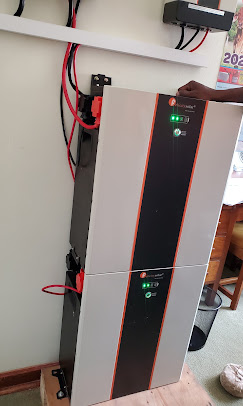
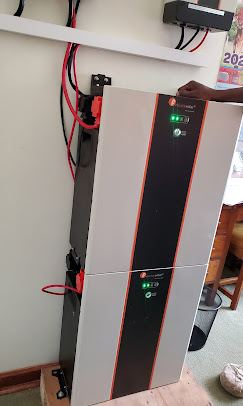
perf: optimize load speed — compress images 43% (113KB), generate WebP, preload LCP, video metadata only, Data Saver detection; fix credit to Noel Digital Agency

diff --git a/index.html b/index.html
@@ -12,6 +12,9 @@
 <meta property="og:image" content="assets/solar-4.jpg">
 <meta name="twitter:card" content="summary_large_image">
 <meta name="theme-color" content="#0F2342">
+<link rel="preload" as="image" href="assets/solar-1.webp" fetchpriority="high">
+<link rel="preload" as="image" href="assets/solar-4.webp">
+<link rel="preconnect" href="https://fonts.gstatic.com" crossorigin>
 <script type="application/ld+json">{"@context":"https://schema.org","@type":"Organization","name":"Felicity Solar Zimbabwe (Private) Limited","url":"https://www.felicitysolar.co.zw","logo":"assets/solar-5.jpg","address":{"@type":"PostalAddress","streetAddress":"45 Glenara Avenue South, Eastlea","addressLocality":"Harare","addressCountry":"ZW"},"telephone":"+263779073333","description":"High-technology new energy enterprise — hybrid inverters, LiFePO4 storage, photovoltaic modules, solar lighting"}</script>
 <link rel="preconnect" href="https://fonts.googleapis.com">
 <link href="https://fonts.googleapis.com/css2?family=Open+Sans:wght@400;500;600;700&family=Poppins:wght@400;500;600;700;800&display=swap" rel="stylesheet">
@@ -103,7 +106,7 @@ html{scroll-behavior:smooth; scroll-padding-top:84px}
 
 <main id="main">
 <section class="relative min-h-[92vh] flex items-center overflow-hidden pt-16 md:pt-0">
-  <video id="heroVideo" autoplay muted loop playsinline poster="assets/solar-1.jpg" class="absolute inset-0 w-full h-full object-cover">
+  <video id="heroVideo" autoplay muted loop playsinline preload="metadata" poster="assets/solar-1.webp" class="absolute inset-0 w-full h-full object-cover">
     <source src="assets/hero-video.mp4" type="video/mp4">
   </video>
   <div class="absolute inset-0 hero-overlay"></div>
@@ -131,9 +134,9 @@ html{scroll-behavior:smooth; scroll-padding-top:84px}
       </div>
       <div class="flex items-center gap-5 mt-8 text-sm">
         <div class="flex -space-x-2">
-          <img src="assets/hero-1.jfif" class="w-9 h-9 rounded-full border-2 border-navy object-cover" alt="Felicity Solar technician">
-          <img src="assets/solar-6.jpg" class="w-9 h-9 rounded-full border-2 border-navy object-cover" alt="Felicity Solar reception">
-          <img src="assets/solar-4.jpg" class="w-9 h-9 rounded-full border-2 border-navy object-cover" alt="Solar installation in progress">
+          <img src="assets/hero-1.webp" onerror="this.onerror=null;this.src='assets/hero-1.jfif'" class="w-9 h-9 rounded-full border-2 border-navy object-cover" alt="Felicity Solar technician">
+          <img src="assets/solar-6.webp" onerror="this.onerror=null;this.src='assets/solar-6.jpg'" class="w-9 h-9 rounded-full border-2 border-navy object-cover" alt="Felicity Solar reception">
+          <img src="assets/solar-4.webp" onerror="this.onerror=null;this.src='assets/solar-4.jpg'" class="w-9 h-9 rounded-full border-2 border-navy object-cover" alt="Solar installation in progress">
         </div>
         <div class="text-white/90">
           <div class="flex items-center gap-1 text-solar"><svg class="w-4 h-4 fill-current" viewBox="0 0 24 24"><path d="M12 2l3.09 6.26L22 9.27l-5 4.87 1.18 6.88L12 17.77l-6.18 3.25L7 14.14 2 9.27l6.91-1.01L12 2z"/></svg><svg class="w-4 h-4 fill-current" viewBox="0 0 24 24"><path d="M12 2l3.09 6.26L22 9.27l-5 4.87 1.18 6.88L12 17.77l-6.18 3.25L7 14.14 2 9.27l6.91-1.01L12 2z"/></svg><svg class="w-4 h-4 fill-current" viewBox="0 0 24 24"><path d="M12 2l3.09 6.26L22 9.27l-5 4.87 1.18 6.88L12 17.77l-6.18 3.25L7 14.14 2 9.27l6.91-1.01L12 2z"/></svg><svg class="w-4 h-4 fill-current" viewBox="0 0 24 24"><path d="M12 2l3.09 6.26L22 9.27l-5 4.87 1.18 6.88L12 17.77l-6.18 3.25L7 14.14 2 9.27l6.91-1.01L12 2z"/></svg><svg class="w-4 h-4 fill-current" viewBox="0 0 24 24"><path d="M12 2l3.09 6.26L22 9.27l-5 4.87 1.18 6.88L12 17.77l-6.18 3.25L7 14.14 2 9.27l6.91-1.01L12 2z"/></svg> <span class="ml-1 font-bold text-white">4.6/5</span></div>
@@ -150,13 +153,13 @@ html{scroll-behavior:smooth; scroll-padding-top:84px}
           </div>
           <div class="mt-4 grid grid-cols-2 gap-3">
             <div class="rounded-2xl overflow-hidden bg-slate-50 border border-slate-100 p-3">
-              <img src="assets/solar-1.jpg" loading="lazy" class="w-full h-28 object-cover rounded-xl" alt="Felicity FLA 5.12kWh wall-mounted lithium battery — actual installation">
+              <img src="assets/solar-1.webp" onerror="this.onerror=null;this.src='assets/solar-1.jpg'" loading="lazy" decoding="async" class="w-full h-28 object-cover rounded-xl" alt="Felicity FLA 5.12kWh wall-mounted lithium battery — actual installation">
               <div class="mt-3 font-poppins font-semibold text-navy text-sm leading-tight">FLA 5.12kWh Wallmount</div>
               <div class="text-xs text-slate-500">LiFePO4 • 51.2V 100Ah • IP65</div>
               <div class="mt-2 flex items-center gap-2"><span class="font-bold text-navy">$1,899</span><span class="text-xs line-through text-slate-400">$2,100</span></div>
             </div>
             <div class="rounded-2xl overflow-hidden bg-slate-50 border border-slate-100 p-3">
-              <img src="assets/solar-5.jpg" loading="lazy" class="w-full h-28 object-cover rounded-xl" alt="Felicity FL-IVPL 48V hybrid inverter — product detail">
+              <img src="assets/solar-5.webp" onerror="this.onerror=null;this.src='assets/solar-5.jpg'" loading="lazy" decoding="async" class="w-full h-28 object-cover rounded-xl" alt="Felicity FL-IVPL 48V hybrid inverter — product detail">
               <div class="mt-3 font-poppins font-semibold text-navy text-sm leading-tight">FL-IVPL 10kVA Hybrid</div>
               <div class="text-xs text-slate-500">48V • 80–280V Input • 3200W PV</div>
               <div class="mt-2 flex items-center gap-2"><span class="font-bold text-navy">$1,250</span><span class="text-xs bg-solar text-navy font-bold px-1.5 py-0.5 rounded">-10%</span></div>
@@ -224,10 +227,10 @@ html{scroll-behavior:smooth; scroll-padding-top:84px}
     </div>
     <div class="relative">
       <div class="grid grid-cols-2 gap-3">
-        <img src="assets/solar-1.jpg" loading="lazy" class="rounded-[20px] h-48 w-full object-cover shadow-lg" alt="Stacked LiFePO4 battery installation — white wall-mounted units with green status indicators">
-        <img src="assets/hero-1.jfif" loading="lazy" class="rounded-[20px] h-48 w-full object-cover shadow-lg mt-6" alt="Certified Felicity Solar technician with photovoltaic module">
-        <img src="assets/solar-4.jpg" loading="lazy" class="rounded-[20px] h-56 w-full object-cover shadow-lg -mt-6" alt="Rooftop photovoltaic installation in progress — technician securing panels">
-        <img src="assets/solar-3.jpg" loading="lazy" class="rounded-[20px] h-56 w-full object-cover shadow-lg" alt="Parallel lithium battery bank with DC wiring — technical installation detail">
+        <img src="assets/solar-1.webp" onerror="this.onerror=null;this.src='assets/solar-1.jpg'" loading="lazy" decoding="async" class="rounded-[20px] h-48 w-full object-cover shadow-lg" alt="Stacked LiFePO4 battery installation — white wall-mounted units with green status indicators">
+        <img src="assets/hero-1.webp" onerror="this.onerror=null;this.src='assets/hero-1.jfif'" loading="lazy" decoding="async" class="rounded-[20px] h-48 w-full object-cover shadow-lg mt-6" alt="Certified Felicity Solar technician with photovoltaic module">
+        <img src="assets/solar-4.webp" onerror="this.onerror=null;this.src='assets/solar-4.jpg'" loading="lazy" decoding="async" class="rounded-[20px] h-56 w-full object-cover shadow-lg -mt-6" alt="Rooftop photovoltaic installation in progress — technician securing panels">
+        <img src="assets/solar-3.webp" onerror="this.onerror=null;this.src='assets/solar-3.jpg'" loading="lazy" decoding="async" class="rounded-[20px] h-56 w-full object-cover shadow-lg" alt="Parallel lithium battery bank with DC wiring — technical installation detail">
       </div>
       <div class="absolute -bottom-4 -left-2 md:-left-6 bg-navy text-white rounded-2xl px-5 py-4 shadow-xl flex items-center gap-4">
         <div class="w-12 h-12 rounded-xl bg-solar flex items-center justify-center text-navy font-extrabold text-xl">4.6</div>
@@ -250,7 +253,7 @@ html{scroll-behavior:smooth; scroll-padding-top:84px}
     <div class="mt-6 flex flex-wrap gap-2 no-print"><button data-filter="all" class="filterBtn bg-navy text-white px-5 py-2 rounded-full text-sm font-bold cursor-pointer">All</button><button data-filter="inverter" class="filterBtn bg-slate-100 hover:bg-slate-200 text-navy px-5 py-2 rounded-full text-sm font-semibold cursor-pointer">Inverters</button><button data-filter="battery" class="filterBtn bg-slate-100 hover:bg-slate-200 text-navy px-5 py-2 rounded-full text-sm font-semibold cursor-pointer">Batteries</button><button data-filter="pv" class="filterBtn bg-slate-100 hover:bg-slate-200 text-navy px-5 py-2 rounded-full text-sm font-semibold cursor-pointer">PV Modules</button><button data-filter="light" class="filterBtn bg-slate-100 hover:bg-slate-200 text-navy px-5 py-2 rounded-full text-sm font-semibold cursor-pointer">Illumination</button></div>
     <div class="grid md:grid-cols-2 lg:grid-cols-4 gap-5 mt-6">
       <div data-cat="inverter" class="productCard group bg-[#F8FAFC] rounded-[20px] border border-slate-200 overflow-hidden hover:shadow-[0_12px_30px_rgba(15,35,66,0.08)] hover:-translate-y-1 transition-all duration-200 cursor-pointer">
-        <div class="h-44 overflow-hidden relative"><img src="assets/solar-5.jpg" loading="lazy" class="w-full h-full object-cover group-hover:scale-105 transition-transform duration-500" alt="Felicity FL-IVPL 48V hybrid inverter — official product graphic showing 80-280V wide input"><span class="absolute top-3 left-3 bg-navy text-white text-xs font-bold px-3 py-1 rounded-full">BESTSELLER</span></div>
+        <div class="h-44 overflow-hidden relative"><img src="assets/solar-5.webp" onerror="this.onerror=null;this.src='assets/solar-5.jpg'" loading="lazy" decoding="async" class="w-full h-full object-cover group-hover:scale-105 transition-transform duration-500" alt="Felicity FL-IVPL 48V hybrid inverter — official product graphic showing 80-280V wide input"><span class="absolute top-3 left-3 bg-navy text-white text-xs font-bold px-3 py-1 rounded-full">BESTSELLER</span></div>
         <div class="p-5">
           <div class="w-9 h-9 rounded-xl bg-solar/15 flex items-center justify-center"><svg class="w-5 h-5 text-solar-dark" fill="none" stroke="currentColor" stroke-width="2" viewBox="0 0 24 24"><rect x="2" y="7" width="20" height="14" rx="2"/><path d="M16 7V5a2 2 0 00-2-2H10a2 2 0 00-2 2v2"/></svg></div>
           <h3 class="font-poppins font-semibold text-navy mt-3">Hybrid Inverters</h3>
@@ -260,7 +263,7 @@ html{scroll-behavior:smooth; scroll-padding-top:84px}
         </div>
       </div>
       <div data-cat="battery" class="productCard group bg-[#F8FAFC] rounded-[20px] border border-slate-200 overflow-hidden hover:shadow-[0_12px_30px_rgba(15,35,66,0.08)] hover:-translate-y-1 transition-all duration-200 cursor-pointer">
-        <div class="h-44 overflow-hidden relative"><img src="assets/solar-1.jpg" loading="lazy" class="w-full h-full object-cover group-hover:scale-105 transition-transform duration-500" alt="Felicity LiFePO4 stacked battery — white wall-mounted units with orange trim and status LEDs as installed"><span class="absolute top-3 left-3 bg-eco text-white text-xs font-bold px-3 py-1 rounded-full">LiFePO4 • 10YR</span></div>
+        <div class="h-44 overflow-hidden relative"><img src="assets/solar-1.webp" onerror="this.onerror=null;this.src='assets/solar-1.jpg'" loading="lazy" decoding="async" class="w-full h-full object-cover group-hover:scale-105 transition-transform duration-500" alt="Felicity LiFePO4 stacked battery — white wall-mounted units with orange trim and status LEDs as installed"><span class="absolute top-3 left-3 bg-eco text-white text-xs font-bold px-3 py-1 rounded-full">LiFePO4 • 10YR</span></div>
         <div class="p-5">
           <div class="w-9 h-9 rounded-xl bg-eco/10 flex items-center justify-center"><svg class="w-5 h-5 text-eco" fill="none" stroke="currentColor" stroke-width="2" viewBox="0 0 24 24"><rect x="2" y="7" width="18" height="10" rx="2"/><path d="M22 11v2"/><path d="M6 7v10M10 7v10M14 7v10"/></svg></div>
           <h3 class="font-poppins font-semibold text-navy mt-3">Lithium Energy Storage</h3>
@@ -270,7 +273,7 @@ html{scroll-behavior:smooth; scroll-padding-top:84px}
         </div>
       </div>
       <div data-cat="pv" class="productCard group bg-[#F8FAFC] rounded-[20px] border border-slate-200 overflow-hidden hover:shadow-[0_12px_30px_rgba(15,35,66,0.08)] hover:-translate-y-1 transition-all duration-200 cursor-pointer">
-        <div class="h-44 overflow-hidden"><img src="assets/solar-4.jpg" loading="lazy" class="w-full h-full object-cover group-hover:scale-105 transition-transform duration-500" alt="Photovoltaic installation in progress — certified installer securing rooftop panels"></div>
+        <div class="h-44 overflow-hidden"><img src="assets/solar-4.webp" onerror="this.onerror=null;this.src='assets/solar-4.jpg'" loading="lazy" decoding="async" class="w-full h-full object-cover group-hover:scale-105 transition-transform duration-500" alt="Photovoltaic installation in progress — certified installer securing rooftop panels"></div>
         <div class="p-5">
           <div class="w-9 h-9 rounded-xl bg-cyan/10 flex items-center justify-center"><svg class="w-5 h-5 text-cyan" fill="none" stroke="currentColor" stroke-width="2" viewBox="0 0 24 24"><rect x="3" y="3" width="18" height="18" rx="2"/><path d="M3 9h18M9 21V9"/><path d="M14 9h5v5"/><path d="M3 15h6v6"/></svg></div>
           <h3 class="font-poppins font-semibold text-navy mt-3">Photovoltaic Modules</h3>
@@ -280,7 +283,7 @@ html{scroll-behavior:smooth; scroll-padding-top:84px}
         </div>
       </div>
       <div data-cat="light" class="productCard group bg-[#F8FAFC] rounded-[20px] border border-slate-200 overflow-hidden hover:shadow-[0_12px_30px_rgba(15,35,66,0.08)] hover:-translate-y-1 transition-all duration-200 cursor-pointer">
-        <div class="h-44 overflow-hidden"><img src="assets/solar-2.jpg" loading="lazy" class="w-full h-full object-cover group-hover:scale-105 transition-transform duration-500" alt="Outdoor field deployment — Felicity Solar exhibition with demonstration systems under canopy"></div>
+        <div class="h-44 overflow-hidden"><img src="assets/solar-2.webp" onerror="this.onerror=null;this.src='assets/solar-2.jpg'" loading="lazy" decoding="async" class="w-full h-full object-cover group-hover:scale-105 transition-transform duration-500" alt="Outdoor field deployment — Felicity Solar exhibition with demonstration systems under canopy"></div>
         <div class="p-5">
           <div class="w-9 h-9 rounded-xl bg-navy/10 flex items-center justify-center"><svg class="w-5 h-5 text-navy" fill="none" stroke="currentColor" stroke-width="2" viewBox="0 0 24 24"><path d="M12 2a7 7 0 00-7 7c0 2.5 1.5 4.5 3 6h8c1.5-1.5 3-3.5 3-6a7 7 0 00-7-7z"/><path d="M9 18h6"/><path d="M10 22h4"/></svg></div>
           <h3 class="font-poppins font-semibold text-navy mt-3">Solar Illumination Systems</h3>
@@ -305,7 +308,7 @@ html{scroll-behavior:smooth; scroll-padding-top:84px}
   </div>
   <div class="grid md:grid-cols-3 gap-5 mt-10">
     <div class="bg-white rounded-[20px] border border-slate-200 p-6 hover:shadow-lg transition-shadow">
-      <img src="assets/solar-4.jpg" loading="lazy" class="w-full h-40 object-cover rounded-xl" alt="Residential rooftop — installer securing photovoltaic modules">
+      <img src="assets/solar-4.webp" onerror="this.onerror=null;this.src='assets/solar-4.jpg'" loading="lazy" decoding="async" class="w-full h-40 object-cover rounded-xl" alt="Residential rooftop — installer securing photovoltaic modules">
       <h3 class="font-poppins font-semibold text-navy mt-4">Residential Systems</h3>
       <p class="text-sm text-slate-500 mt-1">3–10 kVA hybrid inverters paired with 5–20 kWh LiFePO4 storage — for lighting, refrigeration, entertainment, borehole, water heating and communications during grid interruptions.</p>
       <ul class="mt-3 text-xs text-slate-600 space-y-1"><li>✓ Includes COC & ZESA-compliant DB</li><li>✓ Monitoring via Wi-Fi / App</li></ul>
@@ -313,14 +316,14 @@ html{scroll-behavior:smooth; scroll-padding-top:84px}
     </div>
     <div class="bg-navy rounded-[20px] p-6 text-white relative overflow-hidden">
       <div class="absolute -right-10 -top-10 w-40 h-40 bg-solar/20 rounded-full blur-2xl"></div>
-      <img src="assets/solar-3.jpg" loading="lazy" class="w-full h-40 object-cover rounded-xl" alt="Commercial battery bank — three parallel storage units with protected DC wiring">
+      <img src="assets/solar-3.webp" onerror="this.onerror=null;this.src='assets/solar-3.jpg'" loading="lazy" decoding="async" class="w-full h-40 object-cover rounded-xl" alt="Commercial battery bank — three parallel storage units with protected DC wiring">
       <h3 class="font-poppins font-semibold mt-4">Commercial & Industrial</h3>
       <p class="text-sm text-white/70 mt-1">20–250 kWh modular rack systems for retail, hospitality, healthcare, agriculture and manufacturing — with flexible commercial financing options available upon consultation.</p>
       <ul class="mt-3 text-xs text-white/70 space-y-1"><li>✓ Modular 5.12 kWh blocks • Scalable to 61 kWh</li><li>✓ Three-phase & parallel inverter support</li></ul>
       <div class="mt-4 text-xs font-semibold flex items-center gap-2">Projected ROI: 3–4 years <span class="opacity-30">|</span> <a href="#contact" class="text-solar cursor-pointer">Schedule Technical Audit →</a></div>
     </div>
     <div class="bg-white rounded-[20px] border border-slate-200 p-6 hover:shadow-lg transition-shadow">
-      <img src="assets/solar-2.jpg" loading="lazy" class="w-full h-40 object-cover rounded-xl" alt="Water solutions field deployment — outdoor system demonstration with panels">
+      <img src="assets/solar-2.webp" onerror="this.onerror=null;this.src='assets/solar-2.jpg'" loading="lazy" decoding="async" class="w-full h-40 object-cover rounded-xl" alt="Water solutions field deployment — outdoor system demonstration with panels">
       <h3 class="font-poppins font-semibold text-navy mt-4">Water & Borehole Solutions</h3>
       <p class="text-sm text-slate-500 mt-1">Solar-powered pumping systems including 5,000 L storage and structural stand. 1 HP AC configurations from USD 1,508; DC solar alternatives available for off-grid applications.</p>
       <ul class="mt-3 text-xs text-slate-600 space-y-1"><li>✓ 5000 L tank + steel stand + base plate</li><li>✓ AC pump, control box, safety rope</li></ul>
@@ -336,12 +339,12 @@ html{scroll-behavior:smooth; scroll-padding-top:84px}
       <div class="text-xs text-slate-500">Representative portfolio • Click to enlarge • <span class="hidden md:inline">All images from your verified SOLAR folder</span></div>
     </div>
     <div class="grid grid-cols-2 md:grid-cols-3 gap-3 mt-8">
-      <button onclick="openLightbox(0)" class="group overflow-hidden rounded-[18px] aspect-[4/3] relative text-left cursor-pointer"><img src="assets/solar-1.jpg" loading="lazy" class="w-full h-full object-cover group-hover:scale-105 transition-transform duration-500" alt="Wall-mounted LiFePO4 stacked battery — white units with orange trim"><div class="absolute inset-0 bg-gradient-to-t from-navy/60 to-transparent opacity-0 group-hover:opacity-100 transition-opacity flex items-end p-3 text-white text-xs font-semibold">Energy Storage — Stacked 10.2 kWh</div></button>
-      <button onclick="openLightbox(1)" class="group overflow-hidden rounded-[18px] aspect-[4/3] relative text-left cursor-pointer"><img src="assets/solar-2.jpg" loading="lazy" class="w-full h-full object-cover group-hover:scale-105 transition-transform duration-500" alt="Field activation — outdoor exhibition canopy with demonstration systems"><div class="absolute inset-0 bg-gradient-to-t from-navy/60 to-transparent opacity-0 group-hover:opacity-100 transition-opacity flex items-end p-3 text-white text-xs font-semibold">Field Deployment — Community Demonstration</div></button>
-      <button onclick="openLightbox(2)" class="group overflow-hidden rounded-[18px] aspect-[4/3] relative text-left cursor-pointer"><img src="assets/solar-3.jpg" loading="lazy" class="w-full h-full object-cover group-hover:scale-105 transition-transform duration-500" alt="Three-unit parallel battery bank with DC cabling on tiled utility wall"><div class="absolute inset-0 bg-gradient-to-t from-navy/60 to-transparent opacity-0 group-hover:opacity-100 transition-opacity flex items-end p-3 text-white text-xs font-semibold">Battery Bank — Parallel Installation</div></button>
-      <button onclick="openLightbox(3)" class="group overflow-hidden rounded-[18px] aspect-[4/3] relative text-left cursor-pointer"><img src="assets/solar-4.jpg" loading="lazy" class="w-full h-full object-cover group-hover:scale-105 transition-transform duration-500" alt="Rooftop PV installation — technician in Felicity Solar uniform securing panels"><div class="absolute inset-0 bg-gradient-to-t from-navy/60 to-transparent opacity-0 group-hover:opacity-100 transition-opacity flex items-end p-3 text-white text-xs font-semibold">Rooftop Array — Installation in Progress</div></button>
-      <button onclick="openLightbox(4)" class="group overflow-hidden rounded-[18px] aspect-[4/3] relative text-left cursor-pointer"><img src="assets/solar-5.jpg" loading="lazy" class="w-full h-full object-cover group-hover:scale-105 transition-transform duration-500" alt="FL-IVPL 48V hybrid inverter product graphic — 80-280V wide input voltage"><div class="absolute inset-0 bg-gradient-to-t from-navy/60 to-transparent opacity-0 group-hover:opacity-100 transition-opacity flex items-end p-3 text-white text-xs font-semibold">Hybrid Inverter — FL-IVPL Specification</div></button>
-      <button onclick="openLightbox(5)" class="group overflow-hidden rounded-[18px] aspect-[4/3] relative text-left cursor-pointer"><img src="assets/solar-6.jpg" loading="lazy" class="w-full h-full object-cover group-hover:scale-105 transition-transform duration-500" alt="Felicity Solar head office reception — 45 Glenara Avenue South"><div class="absolute inset-0 bg-gradient-to-t from-navy/60 to-transparent opacity-0 group-hover:opacity-100 transition-opacity flex items-end p-3 text-white text-xs font-semibold">Head Office — Eastlea Reception</div></button>
+      <button onclick="openLightbox(0)" class="group overflow-hidden rounded-[18px] aspect-[4/3] relative text-left cursor-pointer"><img src="assets/solar-1.webp" onerror="this.onerror=null;this.src='assets/solar-1.jpg'" loading="lazy" decoding="async" class="w-full h-full object-cover group-hover:scale-105 transition-transform duration-500" alt="Wall-mounted LiFePO4 stacked battery — white units with orange trim"><div class="absolute inset-0 bg-gradient-to-t from-navy/60 to-transparent opacity-0 group-hover:opacity-100 transition-opacity flex items-end p-3 text-white text-xs font-semibold">Energy Storage — Stacked 10.2 kWh</div></button>
+      <button onclick="openLightbox(1)" class="group overflow-hidden rounded-[18px] aspect-[4/3] relative text-left cursor-pointer"><img src="assets/solar-2.webp" onerror="this.onerror=null;this.src='assets/solar-2.jpg'" loading="lazy" decoding="async" class="w-full h-full object-cover group-hover:scale-105 transition-transform duration-500" alt="Field activation — outdoor exhibition canopy with demonstration systems"><div class="absolute inset-0 bg-gradient-to-t from-navy/60 to-transparent opacity-0 group-hover:opacity-100 transition-opacity flex items-end p-3 text-white text-xs font-semibold">Field Deployment — Community Demonstration</div></button>
+      <button onclick="openLightbox(2)" class="group overflow-hidden rounded-[18px] aspect-[4/3] relative text-left cursor-pointer"><img src="assets/solar-3.webp" onerror="this.onerror=null;this.src='assets/solar-3.jpg'" loading="lazy" decoding="async" class="w-full h-full object-cover group-hover:scale-105 transition-transform duration-500" alt="Three-unit parallel battery bank with DC cabling on tiled utility wall"><div class="absolute inset-0 bg-gradient-to-t from-navy/60 to-transparent opacity-0 group-hover:opacity-100 transition-opacity flex items-end p-3 text-white text-xs font-semibold">Battery Bank — Parallel Installation</div></button>
+      <button onclick="openLightbox(3)" class="group overflow-hidden rounded-[18px] aspect-[4/3] relative text-left cursor-pointer"><img src="assets/solar-4.webp" onerror="this.onerror=null;this.src='assets/solar-4.jpg'" loading="lazy" decoding="async" class="w-full h-full object-cover group-hover:scale-105 transition-transform duration-500" alt="Rooftop PV installation — technician in Felicity Solar uniform securing panels"><div class="absolute inset-0 bg-gradient-to-t from-navy/60 to-transparent opacity-0 group-hover:opacity-100 transition-opacity flex items-end p-3 text-white text-xs font-semibold">Rooftop Array — Installation in Progress</div></button>
+      <button onclick="openLightbox(4)" class="group overflow-hidden rounded-[18px] aspect-[4/3] relative text-left cursor-pointer"><img src="assets/solar-5.webp" onerror="this.onerror=null;this.src='assets/solar-5.jpg'" loading="lazy" decoding="async" class="w-full h-full object-cover group-hover:scale-105 transition-transform duration-500" alt="FL-IVPL 48V hybrid inverter product graphic — 80-280V wide input voltage"><div class="absolute inset-0 bg-gradient-to-t from-navy/60 to-transparent opacity-0 group-hover:opacity-100 transition-opacity flex items-end p-3 text-white text-xs font-semibold">Hybrid Inverter — FL-IVPL Specification</div></button>
+      <button onclick="openLightbox(5)" class="group overflow-hidden rounded-[18px] aspect-[4/3] relative text-left cursor-pointer"><img src="assets/solar-6.webp" onerror="this.onerror=null;this.src='assets/solar-6.jpg'" loading="lazy" decoding="async" class="w-full h-full object-cover group-hover:scale-105 transition-transform duration-500" alt="Felicity Solar head office reception — 45 Glenara Avenue South"><div class="absolute inset-0 bg-gradient-to-t from-navy/60 to-transparent opacity-0 group-hover:opacity-100 transition-opacity flex items-end p-3 text-white text-xs font-semibold">Head Office — Eastlea Reception</div></button>
     </div>
   </div>
 </section>
@@ -369,7 +372,7 @@ html{scroll-behavior:smooth; scroll-padding-top:84px}
     </div>
     <a href="https://zw.africabz.com/harare/felicity-solar-zimbabwe-271203" target="_blank" rel="noopener" class="inline-flex mt-3 text-xs font-bold text-cyan hover:underline cursor-pointer">Read all 7 on AfricaBz →</a>
     <div class="mt-4 bg-slate-50 border border-slate-200 rounded-2xl p-4 flex items-center gap-3">
-      <img src="assets/hero-1.jfif" class="w-10 h-10 rounded-full object-cover" alt=""><div><div class="text-sm font-semibold text-navy">Average rating 4.6/5 on independent platforms</div><div class="text-xs text-slate-500">Transparent, non-incentivized reviews — no paid placements</div></div>
+      <img src="assets/hero-1.webp" onerror="this.onerror=null;this.src='assets/hero-1.jfif'" class="w-10 h-10 rounded-full object-cover" alt=""><div><div class="text-sm font-semibold text-navy">Average rating 4.6/5 on independent platforms</div><div class="text-xs text-slate-500">Transparent, non-incentivized reviews — no paid placements</div></div>
     </div>
   </div>
 </section>
@@ -408,7 +411,7 @@ html{scroll-behavior:smooth; scroll-padding-top:84px}
         <div class="bg-white/10 rounded-2xl p-3 border border-white/10"><div class="font-bold text-eco">24h</div><div class="text-xs">Quote reply</div></div>
       </div>
       <div class="mt-6 rounded-2xl overflow-hidden border border-white/10 bg-white/5">
-        <iframe title="Map — 45 Glenara Ave S, Eastlea Harare" src="https://www.openstreetmap.org/export/embed.html?bbox=31.05%2C-17.83%2C31.08%2C-17.81&layer=mapnik&marker=-17.82%2C31.065" class="w-full h-56 border-0" loading="lazy" referrerpolicy="no-referrer-when-downgrade"></iframe>
+        <iframe title="Map — 45 Glenara Ave S, Eastlea Harare" src="https://www.openstreetmap.org/export/embed.html?bbox=31.05%2C-17.83%2C31.08%2C-17.81&layer=mapnik&marker=-17.82%2C31.065" class="w-full h-56 border-0" loading="lazy" decoding="async" referrerpolicy="no-referrer-when-downgrade"></iframe>
         <div class="px-4 py-2 flex justify-between items-center text-xs"><span class="text-white/70">OpenStreetMap • Eastlea, Harare — indicative location</span><a href="https://www.openstreetmap.org/?mlat=-17.82&mlon=31.065#map=16/-17.82/31.065" target="_blank" rel="noopener" class="text-solar font-bold hover:underline">View larger map</a></div>
       </div>
       <div class="mt-4 bg-white/10 border border-white/10 rounded-2xl p-4">
@@ -450,9 +453,10 @@ html{scroll-behavior:smooth; scroll-padding-top:84px}
         <div class="mt-4 flex flex-wrap gap-2 text-xs"><a href="https://facebook.com/felicitysolarzim" target="_blank" rel="noopener" class="bg-white/10 hover:bg-white/15 px-3 py-1.5 rounded-full transition-colors">Facebook</a><a href="https://www.felicitysolar.co.zw" target="_blank" rel="noopener" class="bg-white/10 hover:bg-white/15 px-3 py-1.5 rounded-full transition-colors">Website</a><span class="bg-white/10 px-3 py-1.5 rounded-full">45 Glenara Ave S, Eastlea</span></div>
       </div>
       <div class="text-xs space-y-2"><div class="font-bold text-white tracking-wide">EXPLORE</div><a href="#about" class="block hover:text-white cursor-pointer">About Us</a><a href="#products" class="block hover:text-white cursor-pointer">Product Portfolio</a><a href="#solutions" class="block hover:text-white cursor-pointer">Solutions</a><a href="#projects" class="block hover:text-white cursor-pointer">Project Gallery</a><a href="#faq" class="block hover:text-white cursor-pointer">FAQ</a></div>
-      <div class="text-xs space-y-2"><div class="font-bold text-white tracking-wide">LEGAL & PROPOSAL</div><div>© 2026 Felicity Solar Zimbabwe (Private) Limited</div><div>All specs: verify with store manager before purchase.</div><button onclick="toast('Privacy & Terms — available on formal proposal document.')" class="underline hover:text-white cursor-pointer">Privacy • Terms</button><div class="pt-2"><label class="font-bold text-white">Newsletter</label><form id="newsForm" class="mt-1 flex gap-2"><input required type="email" placeholder="email@company.co.zw" class="flex-1 rounded-full px-3 py-2 text-xs text-navy focus:outline-none"><button class="bg-solar text-navy font-bold px-4 py-2 rounded-full text-xs hover:bg-solar-dark cursor-pointer">Join</button></form><p class="text-[11px] text-white/50 mt-1">Monthly product & tariff updates — unsubscribe anytime.</p></div></div>
+      <div class="text-xs space-y-2"><div class="font-bold text-white tracking-wide">LEGAL & PROPOSAL</div><div>© 2026 Felicity Solar Zimbabwe (Private) Limited • Web crafted by <a href="https://github.com/noeljaywolf-create/noel-digital-agency" target="_blank" rel="noopener" class="text-white hover:text-solar underline">Noel Digital Agency</a></div><div>All specs: verify with store manager before purchase.</div><button onclick="toast('Privacy & Terms — available on formal proposal document.')" class="underline hover:text-white cursor-pointer">Privacy • Terms</button><div class="pt-2"><label class="font-bold text-white">Newsletter</label><form id="newsForm" class="mt-1 flex gap-2"><input required type="email" placeholder="email@company.co.zw" class="flex-1 rounded-full px-3 py-2 text-xs text-navy focus:outline-none"><button class="bg-solar text-navy font-bold px-4 py-2 rounded-full text-xs hover:bg-solar-dark cursor-pointer">Join</button></form><p class="text-[11px] text-white/50 mt-1">Monthly product & tariff updates — unsubscribe anytime.</p></div></div>
     </div>
     <div class="mt-8 pt-6 border-t border-white/10 flex flex-wrap justify-between gap-4 text-[11px]"><span>Proposal prepared 25 August 2026 • Valid 30 days • Prices in USD • ZWL equivalent at bank rate • Demo site — not yet indexed</span><span class="flex gap-3"><span>● Harare</span><span>● Guangzhou</span><span>● Miami</span></span></div>
+    <div class="mt-4 text-center text-[11px] text-white/50">Web crafted by <a href="https://github.com/noeljaywolf-create/noel-digital-agency" target="_blank" rel="noopener" class="text-solar hover:text-white font-semibold underline underline-offset-2">Noel Digital Agency</a> • Harare, Zimbabwe • <a href="https://wa.me/263719187878" class="hover:text-white">Contact Studio</a></div></div>
   </div>
 </footer>
 
@@ -469,7 +473,10 @@ $('#backTop').onclick=()=>window.scrollTo({top:0, behavior:'smooth'});
 function toast(msg){ const wrap=$('#toastWrap'); const el=document.createElement('div'); el.className='bg-navy text-white text-sm font-semibold px-5 py-3 rounded-full shadow-xl border border-white/10 pointer-events-auto'; el.textContent=msg; wrap.appendChild(el); setTimeout(()=>{ el.style.opacity='0'; el.style.transform='translateY(-8px)'; setTimeout(()=>el.remove(),300); }, 3500); }
 document.querySelectorAll('.filterBtn').forEach(btn=>{ btn.addEventListener('click',()=>{ document.querySelectorAll('.filterBtn').forEach(b=>{ b.className='filterBtn bg-slate-100 hover:bg-slate-200 text-navy px-5 py-2 rounded-full text-sm font-semibold cursor-pointer';}); btn.className='filterBtn bg-navy text-white px-5 py-2 rounded-full text-sm font-bold cursor-pointer'; const f=btn.dataset.filter; document.querySelectorAll('.productCard').forEach(c=>{ c.style.display=(f==='all'||c.dataset.cat===f)?'block':'none'; }); }); });
 document.querySelectorAll('.faqBtn').forEach(btn=>{ btn.addEventListener('click',()=>{ const ans=btn.nextElementSibling; const icon=btn.querySelector('svg'); const open=!ans.classList.contains('hidden'); document.querySelectorAll('.faqAns').forEach(a=>a.classList.add('hidden')); document.querySelectorAll('.faqBtn svg').forEach(s=>s.style.transform=''); if(!open){ ans.classList.remove('hidden'); icon.style.transform='rotate(180deg)'; } }); });
-const v=$('#heroVideo'), vp=$('#vidPause'), vm=$('#vidMute'); if(v){ vp.onclick=()=>{ if(v.paused){ v.play(); vp.innerHTML='<svg class=\"w-4 h-4\" fill=\"currentColor\" viewBox=\"0 0 24 24\"><rect x=\"6\" y=\"5\" width=\"4\" height=\"14\" rx=\"1\"/><rect x=\"14\" y=\"5\" width=\"4\" height=\"14\" rx=\"1\"/></svg>'; } else { v.pause(); vp.innerHTML='<svg class=\"w-4 h-4\" fill=\"currentColor\" viewBox=\"0 0 24 24\"><path d=\"M8 5v14l11-7z\"/></svg>'; } }; vm.onclick=()=>{ v.muted=!v.muted; vm.style.opacity=v.muted? '0.6': '1'; }; v.addEventListener('error',()=>v.style.display='none'); }
+const v=$('#heroVideo'), vp=$('#vidPause'), vm=$('#vidMute'); if(v){ vp.onclick=()=>{ if(v.paused){ v.play(); vp.innerHTML='<svg class=\"w-4 h-4\" fill=\"currentColor\" viewBox=\"0 0 24 24\"><rect x=\"6\" y=\"5\" width=\"4\" height=\"14\" rx=\"1\"/><rect x=\"14\" y=\"5\" width=\"4\" height=\"14\" rx=\"1\"/></svg>'; } else { v.pause(); vp.innerHTML='<svg class=\"w-4 h-4\" fill=\"currentColor\" viewBox=\"0 0 24 24\"><path d=\"M8 5v14l11-7z\"/></svg>'; } }; vm.onclick=()=>{ v.muted=!v.muted; vm.style.opacity=v.muted? '0.6': '1'; }; v.addEventListener('error',()=>v.style.display='none');
+// Speed: respect Save-Data / slow connection - pause video autoplay and use poster only
+try{ const conn=navigator.connection||navigator.mozConnection||navigator.webkitConnection; if(conn && (conn.saveData || /2g/.test(conn.effectiveType))){ v.removeAttribute('autoplay'); v.pause(); toast('Data saver detected — video paused for faster loading.'); } }catch(e){}
+// Defer offscreen images via native lazy already, add fetchpriority high for LCP }
 (function(){ const el=$('#liveStatus'); const openEl=$('#openStatus'); function upd(){ const now=new Date(); const day=now.getDay(); const hr=now.getHours(); const min=now.getMinutes(); const mins=hr*60+min; const isWeekday=day>=1&&day<=5; const isSat=day===6; const open=(isWeekday&&mins>=480&&mins<1020)||(isSat&&mins>=480&&mins<840); const txt=open? '● Open Now':'● Closed'; if(el) el.textContent=txt+' — Mon-Fri 08:00-17:00 • Sat 08:00-14:00'; if(openEl){ openEl.textContent=open? 'OPEN NOW':'CLOSED'; openEl.className=open?'text-eco font-bold':'text-amber-400 font-bold'; } } upd(); setInterval(upd,60000); })();
 (function(){ const beds=$('#estBeds'), bore=$('#estBore'), res=$('#estResult'); function calc(){ const b=parseInt(beds.value); const br=parseInt(bore.value); let kva=3, kwh=5.12, price=2450; if(b>=3){ kva=5; kwh=10.24; price=4200; } if(b>=4){ kva=6; kwh=15.36; price=5800; } if(br) price+=800; res.textContent=kva+' kVA + '+kwh.toFixed(2)+' kWh • ~USD '+price.toLocaleString(); } beds.addEventListener('change',calc); bore.addEventListener('change',calc); calc(); })();
 const gallery=['assets/solar-1.jpg','assets/solar-2.jpg','assets/solar-3.jpg','assets/solar-4.jpg','assets/solar-5.jpg','assets/solar-6.jpg'];
